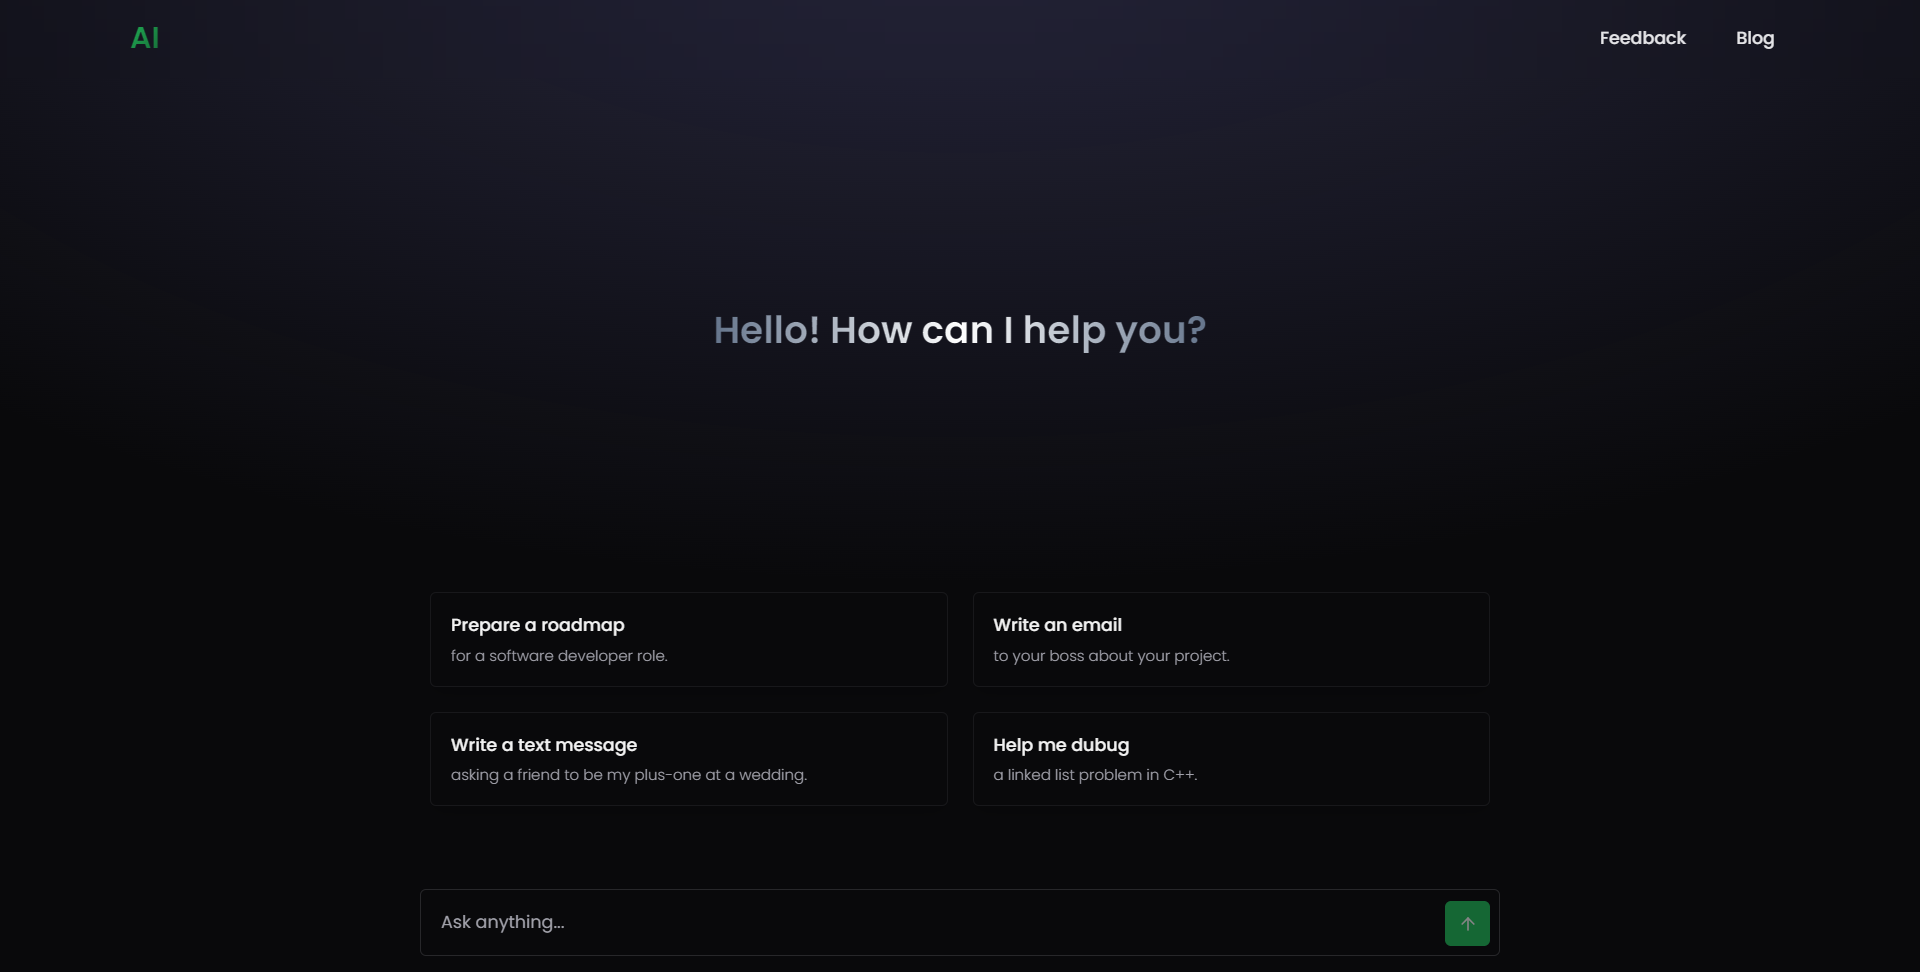
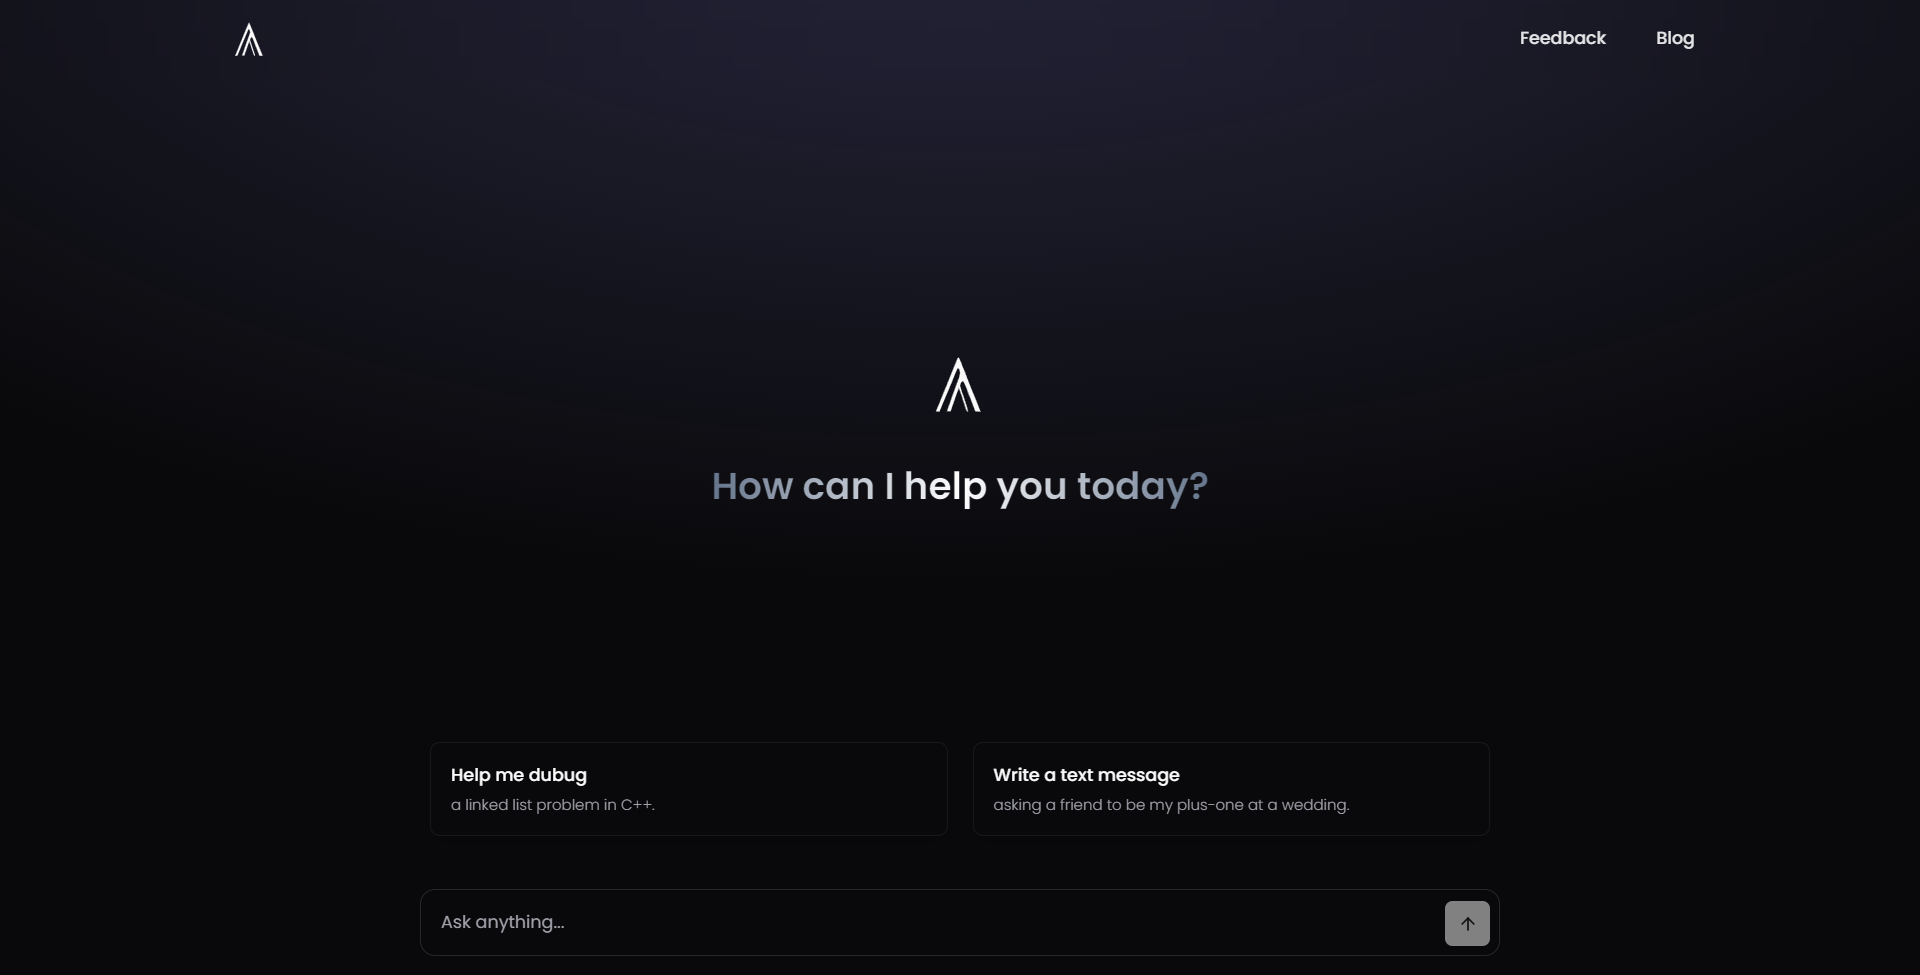
feat(chore): Add metadata

diff --git a/app/chat/_components/chat-welcome.tsx b/app/chat/_components/chat-welcome.tsx
@@ -1,25 +1,15 @@
-"use client";
-
-import * as React from "react";
+import Image from "next/image";
 import { ArrowUp } from "lucide-react";
 
-import { MotionH2 } from "@/components/motion";
+import { MotionDiv } from "@/components/motion";
 import { ActionTooltip } from "@/components/ui/action-tooltip";
 import { Button } from "@/components/ui/button";
 import { CardSpotlight } from "@/components/ui/card-spotlight";
 
 const prompts = [
   {
-    title: "Write an email",
-    subtitle: "to your boss about your project.",
-  },
-  {
     title: "Help me dubug",
     subtitle: "a linked list problem in C++.",
-  },
-  {
-    title: "Prepare a roadmap",
-    subtitle: "for a software developer role.",
   },
   {
     title: "Write a text message",
@@ -46,74 +36,56 @@ export const ChatWelcome = ({
   handleChange,
   textAreaRef,
 }: ChatWelcomeProps) => {
-  const [windowSize, setWindowSize] = React.useState(window.innerWidth);
-
-  const sendPrompt = React.useCallback(
-    ({ title, subtitle }: (typeof prompts)[0]) => {
-      if (!textAreaRef.current) return;
-      const textArea = textAreaRef.current;
-      textArea.value = `${title} ${subtitle}`;
-      handleChange({ target: { value: textArea.value } } as any);
-      setTimeout(() => formRef.current?.requestSubmit(), 0);
-    },
-    [formRef, handleChange, textAreaRef],
-  );
-
-  React.useEffect(() => {
-    function handleResize() {
-      setWindowSize(window.innerWidth);
-    }
-
-    window.addEventListener("resize", handleResize);
-
-    return () => window.removeEventListener("resize", handleResize);
-  }, []);
+  const sendPrompt = ({ title, subtitle }: (typeof prompts)[0]) => {
+    if (!textAreaRef.current) return;
+    const textArea = textAreaRef.current;
+    textArea.value = `${title} ${subtitle}`;
+    handleChange({ target: { value: textArea.value } } as any);
+    setTimeout(() => formRef.current?.requestSubmit(), 0);
+  };
 
   return (
     <section className="w-full flex-1 flex flex-col">
-      <div className="flex-1 grid place-items-center">
-        <MotionH2
-          initial={initial}
-          animate={animate}
-          className="primary_gradient text-center text-2xl md:text-3xl font-semibold"
-        >
-          Hello! How can I help you?
-        </MotionH2>
-      </div>
+      <MotionDiv
+        initial={initial}
+        animate={animate}
+        className="flex-1 flex flex-col items-center justify-center"
+      >
+        <Image src="/logo.svg" alt="AI logo" width={130} height={130} />
+        <h2 className="primary_gradient text-center text-2xl md:text-3xl font-semibold">
+          How can I help you today?
+        </h2>
+      </MotionDiv>
       <div className="w-full grid grid-cols-1 md:grid-cols-2 p-2 gap-3 md:gap-5">
-        {prompts.map((prompt, i) => {
-          if (windowSize < 768 && i > 1) return null;
-
-          return (
-            <CardSpotlight
-              key={i}
-              hoverEffect
-              initial={initial}
-              animate={animate}
-              transition={{ delay: i * 0.1 }}
-              className="col-span-1 p-0 bg-transparent"
+        {prompts.map((prompt, i) => (
+          <CardSpotlight
+            key={i}
+            hoverEffect
+            initial={initial}
+            animate={animate}
+            transition={{ delay: i * 0.1 }}
+            className="col-span-1 p-0 bg-transparent"
+          >
+            <div
+              onClick={() => sendPrompt(prompt)}
+              className="cursor-pointer flex items-center justify-between p-4"
             >
-              <div
-                onClick={() => sendPrompt(prompt)}
-                className="cursor-pointer flex items-center justify-between p-4"
-              >
-                <div className="space-y-1.5">
-                  <p className="text-sm font-medium">{prompt.title}</p>
-                  <p className="text-xs font-light text-zinc-400">{prompt.subtitle}</p>
-                </div>
-                <ActionTooltip label="Use this prompt">
-                  <Button
-                    size="icon"
-                    variant="outline"
-                    className="hidden group-hover:inline-flex rounded-xl"
-                  >
-                    <ArrowUp className="h-4 w-4" />
-                  </Button>
-                </ActionTooltip>
+              <div className="space-y-1.5">
+                <p className="text-sm font-medium">{prompt.title}</p>
+                <p className="text-xs font-light text-zinc-400">{prompt.subtitle}</p>
               </div>
-            </CardSpotlight>
-          );
-        })}
+              <ActionTooltip label="Use this prompt">
+                <Button
+                  size="icon"
+                  variant="outline"
+                  className="hidden group-hover:inline-flex rounded-xl"
+                >
+                  <ArrowUp className="h-4 w-4" />
+                </Button>
+              </ActionTooltip>
+            </div>
+          </CardSpotlight>
+        ))}
       </div>
     </section>
   );

diff --git a/lib/config/metadata.ts b/lib/config/metadata.ts
@@ -1,0 +1,67 @@
+import { Metadata } from "next";
+import { siteConfig } from "./site-config";
+
+export const metadataConfig = {
+  title: {
+    default: siteConfig.name,
+    template: `%s | ${siteConfig.name}`,
+  },
+  description: siteConfig.description,
+  metadataBase: new URL(siteConfig.url),
+  keywords: ["Next.js", "Openai", "Tailwind CSS", "Shadcn UI", "AI", "Gemini Pro"],
+  manifest: `${siteConfig.url}/site.webmanifest`,
+  creator: "Sudip Biswas",
+  authors: [
+    {
+      name: "Sudip Biswas",
+      url: "https://sudipbiswas.me",
+    },
+  ],
+  twitter: {
+    card: "summary_large_image",
+    title: siteConfig.name,
+    description: siteConfig.description,
+    images: [siteConfig.ogImage],
+    creator: "@sudipb7_",
+  },
+  openGraph: {
+    type: "website",
+    locale: "en_US",
+    url: siteConfig.url,
+    title: siteConfig.name,
+    description: siteConfig.description,
+    siteName: siteConfig.name,
+    images: [
+      {
+        url: siteConfig.ogImage,
+        width: 1200,
+        height: 630,
+        alt: siteConfig.name,
+      },
+    ],
+  },
+  icons: [
+    {
+      rel: "apple-touch-icon",
+      sizes: "180x180",
+      url: "/apple-touch-icon.png",
+    },
+    {
+      rel: "icon",
+      type: "image/png",
+      sizes: "32x32",
+      url: "/favicon-32x32.png",
+    },
+    {
+      rel: "icon",
+      type: "image/png",
+      sizes: "16x16",
+      url: "/favicon-16x16.png",
+    },
+    {
+      rel: "mask-icon",
+      url: "/safari-pinned-tab.svg",
+      color: "#5bbad5",
+    },
+  ],
+} satisfies Metadata;

diff --git a/app/page.tsx b/app/page.tsx
@@ -2,6 +2,7 @@ import { Github, Sparkles } from "lucide-react";
 import Link from "next/link";
 import Image from "next/image";
 
+import { siteConfig } from "@/lib/config/site-config";
 import { cn } from "@/lib/utils";
 import { Button } from "@/components/ui/button";
 import { CardSpotlight } from "@/components/ui/card-spotlight";
@@ -62,7 +63,7 @@ export default function Home() {
           <Button asChild variant="secondary">
             <Link
               className="flex items-center"
-              href="https://github.com/sudipb7/ai-labs"
+              href={siteConfig.links.github}
               target="_blank"
               rel="noreferrer noopener"
             >
@@ -98,7 +99,7 @@ export default function Home() {
       >
         Built by{" "}
         <Link
-          href="https://twitter.com/SudipB7_"
+          href={siteConfig.links.twitter}
           target="_blank"
           rel="noreferrer noopener"
           className="underline text-white"
@@ -107,7 +108,7 @@ export default function Home() {
         </Link>{" "}
         The source code is available on{" "}
         <Link
-          href="https://github.com/sudipb7/ai-labs"
+          href={siteConfig.links.github}
           target="_blank"
           rel="noreferrer noopener"
           className="underline text-white"

diff --git a/app/chat/page.tsx b/app/chat/page.tsx
@@ -1,33 +1,10 @@
-"use client";
+import Chat from "./_components";
 
-import * as React from "react";
-import { useChat } from "ai/react";
-
-import { ChatFeed } from "./_components/chat-feed";
-import { ChatForm } from "./_components/chat-form";
+export const metadata = {
+  title: "Chat",
+  description: "Chat with the AI.",
+};
 
 export default function ChatPage() {
-  const formRef = React.useRef<HTMLFormElement>(null);
-  const textAreaRef = React.useRef<HTMLTextAreaElement>(null);
-  const { messages, input, handleInputChange, handleSubmit, isLoading } = useChat();
-
-  return (
-    <section className="min-h-[calc(100vh-4rem)] flex flex-col mx-auto w-full max-w-4xl">
-      <ChatFeed
-        formRef={formRef}
-        messages={messages}
-        isLoading={isLoading}
-        handleChange={handleInputChange}
-        textAreaRef={textAreaRef}
-      />
-      <ChatForm
-        formRef={formRef}
-        input={input}
-        textAreaRef={textAreaRef}
-        isLoading={isLoading}
-        handleSubmit={handleSubmit}
-        handleInputChange={handleInputChange}
-      />
-    </section>
-  );
+  return <Chat />;
 }

diff --git a/app/chat/_components/index.tsx b/app/chat/_components/index.tsx
@@ -1,0 +1,33 @@
+"use client";
+
+import * as React from "react";
+import { useChat } from "ai/react";
+
+import { ChatFeed } from "./chat-feed";
+import { ChatForm } from "./chat-form";
+
+export default function Chat() {
+  const formRef = React.useRef<HTMLFormElement>(null);
+  const textAreaRef = React.useRef<HTMLTextAreaElement>(null);
+  const { messages, input, handleInputChange, handleSubmit, isLoading } = useChat();
+
+  return (
+    <section className="min-h-[calc(100vh-4rem)] flex flex-col mx-auto w-full max-w-4xl">
+      <ChatFeed
+        formRef={formRef}
+        messages={messages}
+        isLoading={isLoading}
+        handleChange={handleInputChange}
+        textAreaRef={textAreaRef}
+      />
+      <ChatForm
+        formRef={formRef}
+        input={input}
+        textAreaRef={textAreaRef}
+        isLoading={isLoading}
+        handleSubmit={handleSubmit}
+        handleInputChange={handleInputChange}
+      />
+    </section>
+  );
+}

diff --git a/app/layout.tsx b/app/layout.tsx
@@ -6,17 +6,14 @@ import { Poppins } from "next/font/google";
 import { ModalProvider } from "@/components/providers/modal-provider";
 import { Toaster } from "@/components/ui/toaster";
 import { Header } from "@/components/header";
+import { metadataConfig } from "@/lib/config/metadata";
 
 const font = Poppins({
   subsets: ["latin"],
   weight: ["300", "400", "500", "600", "700", "800", "900"],
 });
 
-export const metadata: Metadata = {
-  title: "AI Labs",
-  description:
-    "AI Labs is a place where you can try multiple AI models as a chatbot and see how they work.",
-};
+export const metadata: Metadata = metadataConfig;
 
 export default function RootLayout({
   children,

diff --git a/components/header.tsx b/components/header.tsx
@@ -1,6 +1,7 @@
 "use client";
 
 import Link from "next/link";
+import Image from "next/image";
 
 import { useModal } from "@/hooks/use-modal-store";
 
@@ -17,9 +18,8 @@ export const Header = () => {
           href="/"
           initial={{ translateX: -20, opacity: 0 }}
           animate={{ translateX: 0, opacity: 1 }}
-          className="primary_gradient text-xl md:text-2xl font-semibold p-2"
         >
-          AI
+          <Image src="/logo.svg" alt="AI logo" width={80} height={80} />
         </MotionLink>
         <MotionDiv
           initial={{ translateX: 20, opacity: 0 }}

diff --git a/lib/config/site-config.ts b/lib/config/site-config.ts
@@ -1,0 +1,12 @@
+export const siteConfig = {
+  name: "AI",
+  url: "https://ai.sudipbiswas.me",
+  ogImage: "https://ai.sudipbiswas.me/og.png",
+  description: "Experience AI like never before.",
+  links: {
+    twitter: "https://twitter.com/sudipb7_",
+    github: "https://github.com/sudipb7/ai",
+  },
+};
+
+export type SiteConfig = typeof siteConfig;

diff --git a/components/ui/card-spotlight.tsx b/components/ui/card-spotlight.tsx
@@ -1,7 +1,7 @@
 "use client";
 
 import * as React from "react";
-import { motion, MotionAdvancedProps, MotionProps } from "framer-motion";
+import { motion, MotionProps } from "framer-motion";
 import { cn } from "@/lib/utils";
 
 interface SpotlightCardProps extends MotionProps {

diff --git a/app/blogs/page.tsx b/app/blogs/page.tsx
@@ -1,3 +1,7 @@
+export const metadata = {
+  title: "Blog",
+};
+
 export default function BlogsPage() {
   return (
     <main className="h-[calc(100vh-4rem)] w-full flex items-center justify-center">
